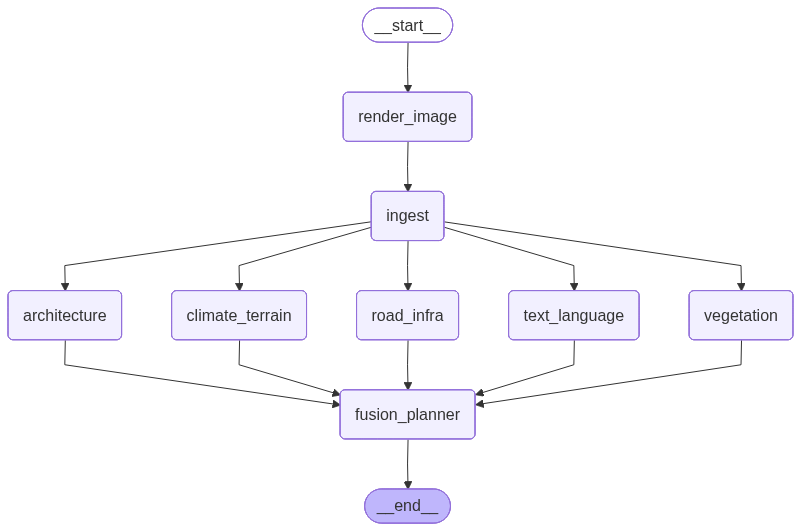
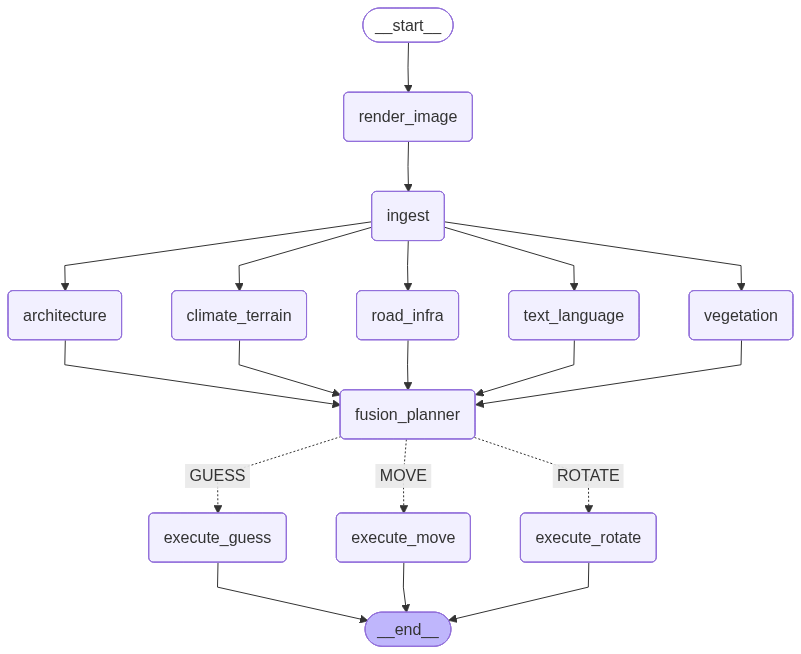
Refactor Agent graph action branching and guess execution

diff --git a/agent.py b/agent.py
@@ -57,6 +57,9 @@ class Agent:
         graph.add_node("vegetation", vegetation_node)
         graph.add_node("road_infra", road_infra_node)
         graph.add_node("fusion_planner", fusion_planner_node)
+        graph.add_node("execute_guess", self.execute_guess)
+        graph.add_node("execute_rotate", self.execute_rotate)
+        graph.add_node("execute_move", self.execute_move)
 
         graph.set_entry_point("render_image")
 
@@ -71,9 +74,56 @@ class Agent:
         for specialist in ["text_language", "architecture", "climate_terrain", "vegetation", "road_infra"]:
             graph.add_edge(specialist, "fusion_planner")
 
-        graph.add_edge("fusion_planner", END)
+        graph.add_conditional_edges(
+            "fusion_planner",
+            self.route_action,
+            {
+                "GUESS": "execute_guess",
+                "ROTATE": "execute_rotate",
+                "MOVE": "execute_move",
+            },
+        )
+        graph.add_edge("execute_guess", END)
+        graph.add_edge("execute_rotate", END)
+        graph.add_edge("execute_move", END)
 
         self.geo_graph = graph.compile()
+
+    @staticmethod
+    def route_action(state: GeoState) -> str:
+        action_type = str(state.get("action", {}).get("type", "GUESS")).upper()
+        if action_type in {"GUESS", "ROTATE", "MOVE"}:
+            return action_type
+        return "GUESS"
+
+    def execute_guess(self, state: GeoState) -> dict[str, Any]:
+        if self.game is None:
+            raise ValueError("Game instance is not set in Agent.")
+
+        final_guess = dict(state.get("final_guess", {}))
+        action = state.get("action", {})
+
+        lat = final_guess.get("lat", action.get("lat"))
+        lon = final_guess.get("lon", action.get("lon"))
+        if lat is None or lon is None:
+            return {"error": "Missing GUESS coordinates in action/final_guess."}
+
+        guess_dist: float = self.game.guess(float(lat), float(lon))
+        final_guess["distance_km"] = guess_dist
+        return {"final_guess": final_guess}
+
+    def execute_rotate(self, state: GeoState) -> dict[str, Any]:
+        if self.game is None:
+            raise ValueError("Game instance is not set in Agent.")
+        degrees = float(state.get("action", {}).get("degrees", 90.0))
+        self.game.turn(degrees, 0)
+        return {}
+
+    def execute_move(self, state: GeoState) -> dict[str, Any]:
+        if self.game is None:
+            raise ValueError("Game instance is not set in Agent.")
+        self.game.move_forward()
+        return {}
 
 
     def analyze(self, max_iter: int, cur_iter: int) -> AnalysisResult:
@@ -131,20 +181,16 @@ class Agent:
             result: AnalysisResult = self.analyze(max_iter, i)
             if len(result.error) > 0:
                 return {"error": result.error}
-            action: str = result.action["type"]
-            if action == "GUESS":
-                guess_dist: float = self.game.guess(result.final_guess["lat"], result.final_guess["lon"])
-                log_event(f"GUESS RESULT: {guess_dist}km")
+            if len(result.final_guess) > 0:
+                distance_km = result.final_guess.get("distance_km")
+                if distance_km is not None:
+                    log_event(f"GUESS RESULT: {distance_km}km")
                 return {
                     "final_guess": result.final_guess,
                     "belief_state": result.belief_state,
                     "iterations_used": i + 1,
                     "errors": result.error
                 }
-            if action == "ROTATE":
-                self.game.turn(result.action["degrees"], 0)
-            elif action == "MOVE":
-                self.game.move_forward()
         return {"error": f"Agent did not give a guess after {max_iter} iterations"}
     
     def export_geo_graph_image(self, output_path: str = "geo_graph.png") -> str:
